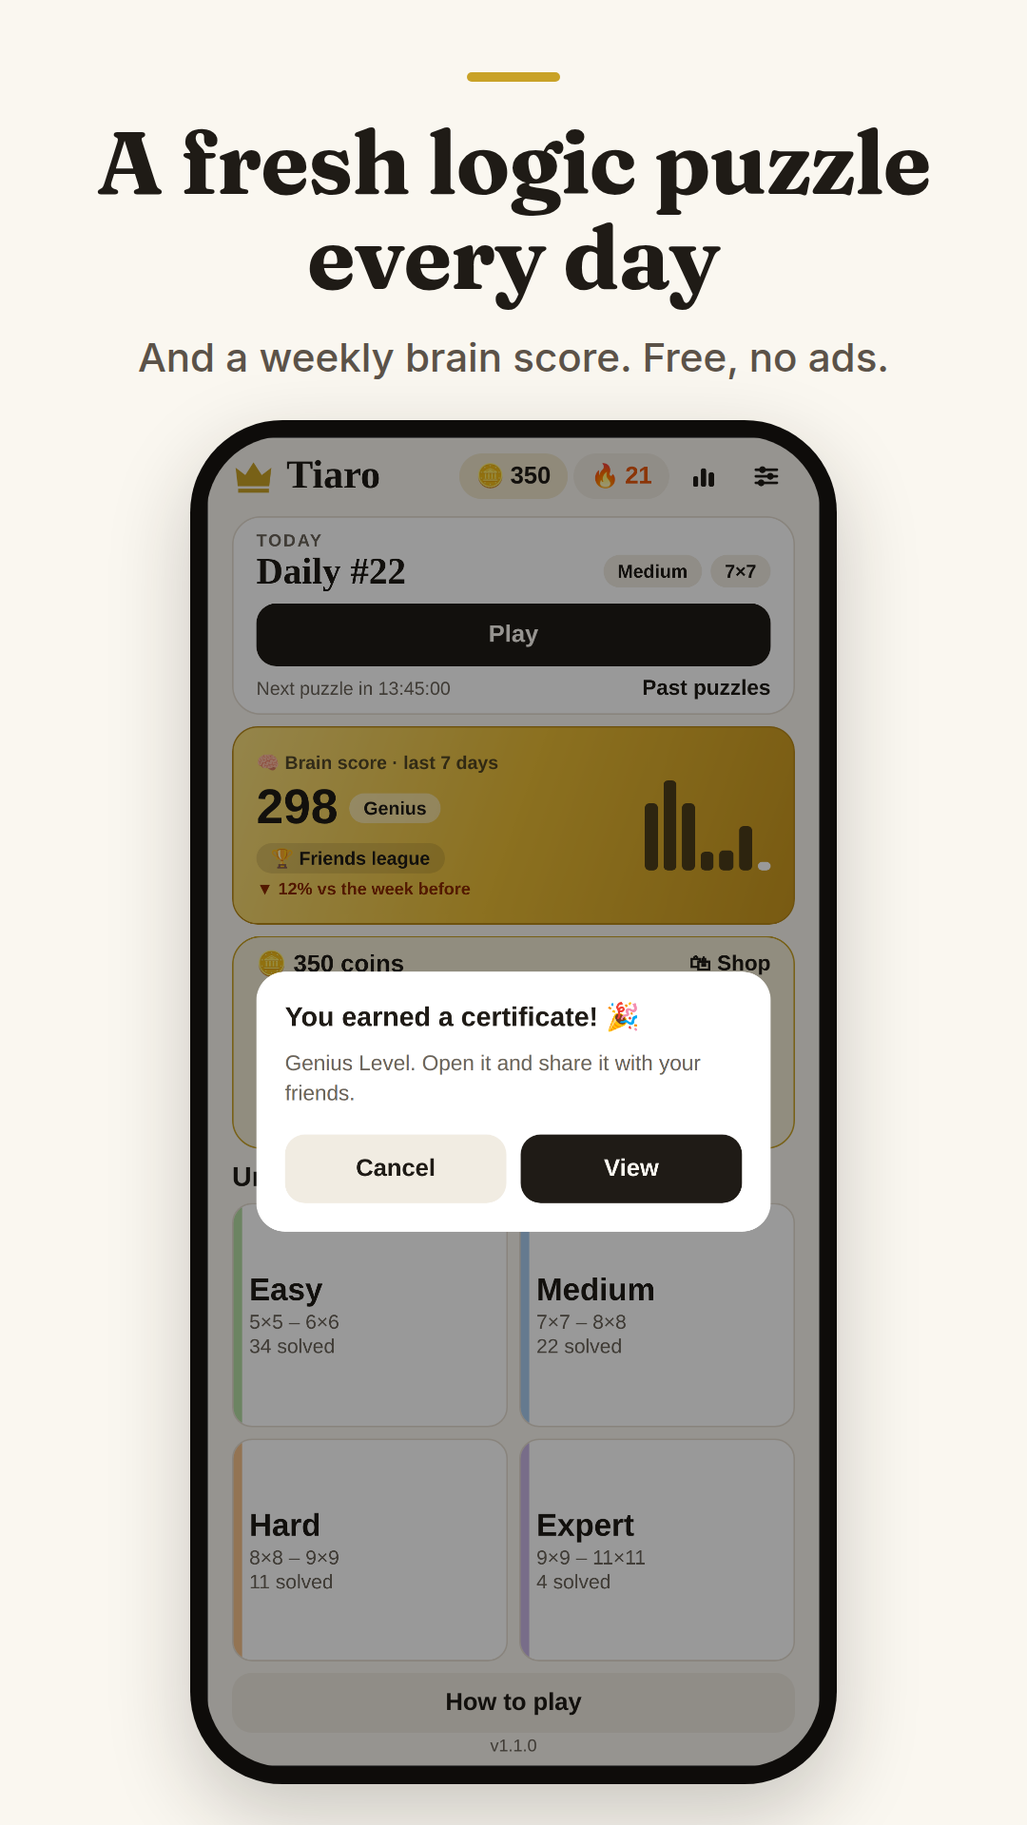
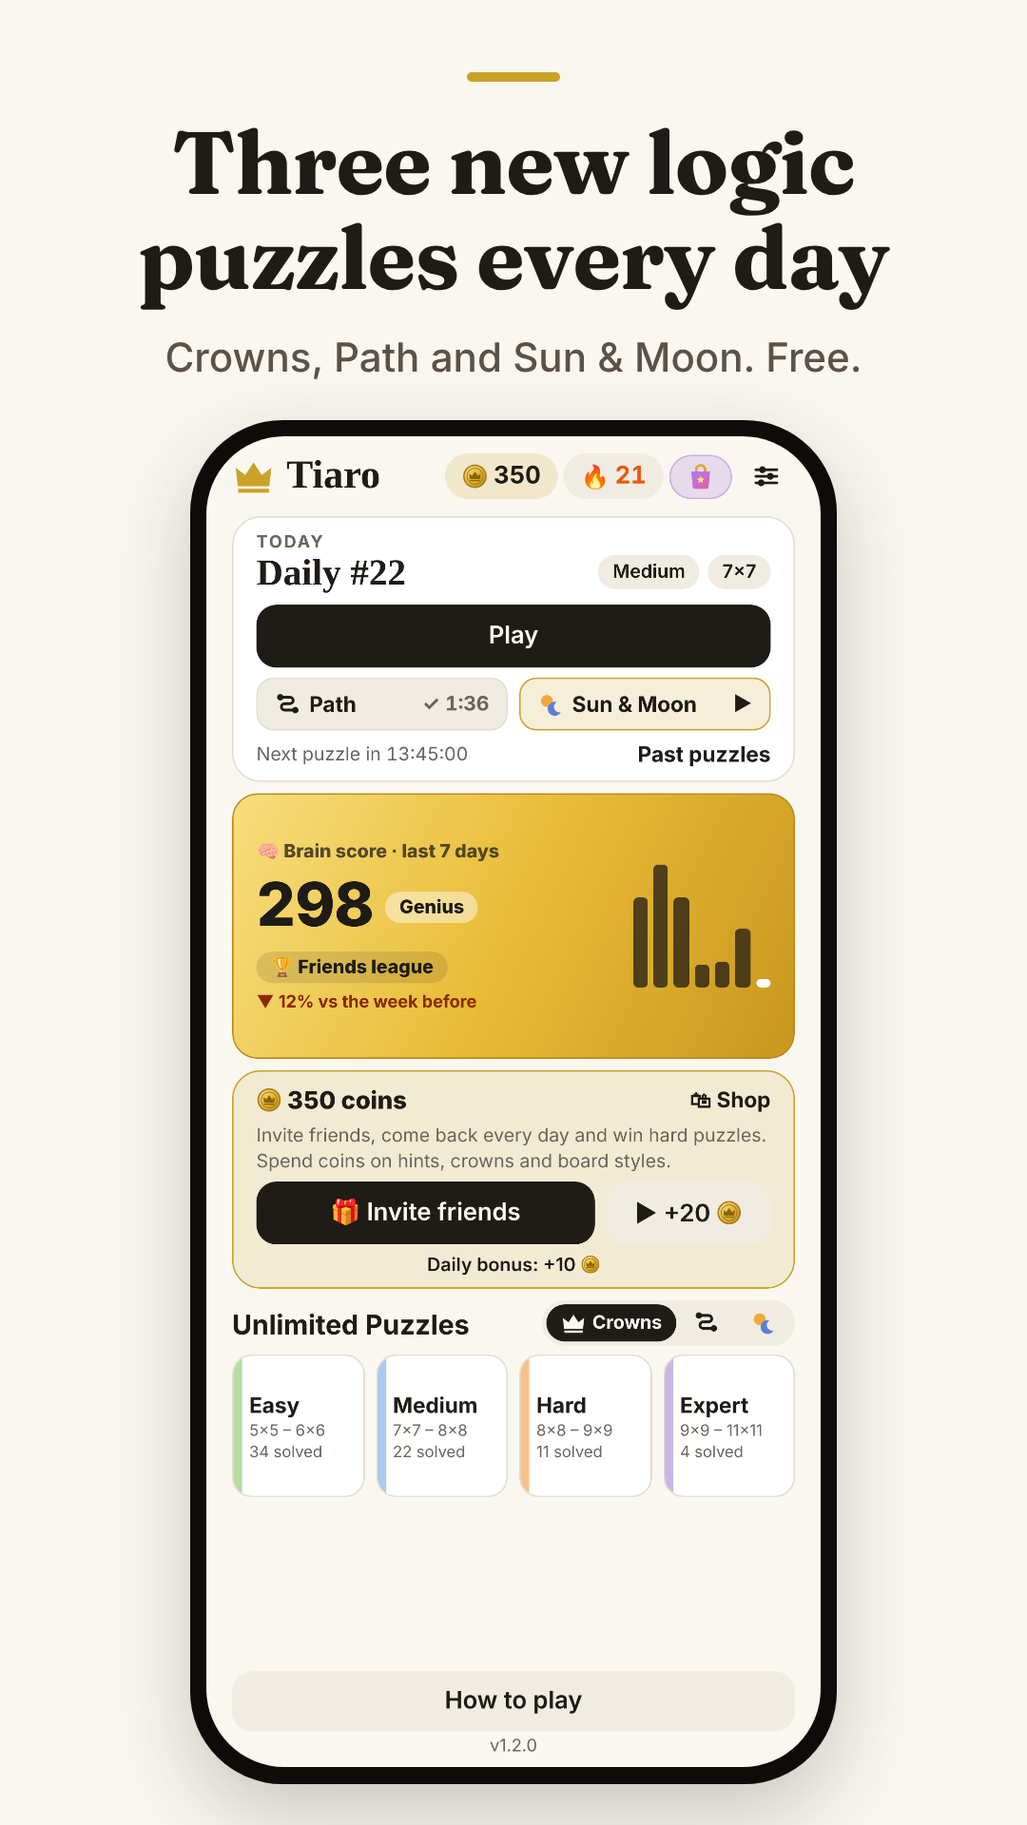
1.2.0: three daily puzzles (Crowns, Path, Sun & Moon); store texts and screenshots for the new set
Claude-Session: https://claude.ai/code/session_01CV8swuTHLnMxCJbxcmyU12

diff --git a/store/tools/seed.ts b/store/tools/seed.ts
@@ -6,6 +6,8 @@ import { writeFileSync } from 'node:fs';
 
 import { APP_VERSION } from '@/constants/version';
 import { CROSS, CROWN, EMPTY } from '@/engine';
+import { binaryUnlimitedId, getBinaryPuzzle } from '@/features/puzzles/binary-catalog';
+import { getPathPuzzle, pathUnlimitedId } from '@/features/puzzles/path-catalog';
 import { getPuzzle, unlimitedId } from '@/features/puzzles/catalog';
 
 const out = process.argv[2];
@@ -62,10 +64,15 @@ const base = (over: Record<string, unknown> = {}) => ({
       coins: 340,
       certCheckedDay: "2026-10-22", // no certificate pop-up over the Home shot
       nickname: "Alex",
-      certs: [{ kind: "week" as const, period: "2026-10-12", id: "k7m2qpa9" }],
+      certs: [{ kind: "week" as const, period: "2026-10-12", id: "k7m2qpa9" }, { kind: "genius" as const, period: "2026-10-19", id: "k7m2qpb3" }, { kind: "genius" as const, period: "2026-10-17", id: "k7m2qpb4" }],
       archiveUnlocked: [],
       lastRepairKey: null,
+      rulesSeen: ['path', 'binary'], // no rules card over the new puzzle shots
     },
+    // Today's Path daily is done (✓ on Home), Sun & Moon is still to play.
+    extra: {},
+    extraIndex: { path: { easy: 18, medium: 9, hard: 5, expert: 1 }, binary: { easy: 15, medium: 8, hard: 3, expert: 1 } },
+    extraDaily: { path: { '2026-10-22': 96 }, binary: {} },
     ...over,
   },
   version: 1,
@@ -88,6 +95,14 @@ function board(id: string, crownRows: number[], extraCross: number) {
 const game = (b: number[], seconds: number) => ({ board: b, undo: [], redo: [], seconds, hints: 0, solved: false });
 
 const mid = unlimitedId('medium', idx.medium);
+// The new puzzle types, half done: a path drawn part of the way, a sun & moon grid partly filled.
+const pathId = pathUnlimitedId('hard', 5);
+const pp = getPathPuzzle(pathId)!;
+const pathGame = { cells: pp.solution.slice(0, 22), undo: [], redo: [], seconds: 73, hints: 0, solved: false };
+const binId = binaryUnlimitedId('medium', 8);
+const bp = getBinaryPuzzle(binId)!;
+const binCells = bp.givens.map((v, i) => (v || (i < bp.n * 3 ? bp.solution[i] : 0)));
+const binGame = { cells: binCells, undo: [], redo: [], seconds: 58, hints: 0, solved: false };
 const hard = unlimitedId('hard', idx.hard);
 const lastRow = 6;
 const pm = getPuzzle(mid)!;
@@ -98,10 +113,14 @@ writeFileSync(
   JSON.stringify({
     mid,
     hard,
+    pathId,
+    binId,
     lastRow,
     lastCol: pm.solution[lastRow],
     scenarios: {
       home: base(),
+      path: base({ extra: { [pathId]: pathGame } }),
+      binary: base({ extra: { [binId]: binGame } }),
       stats: base(),
       game: base({ games: { [mid]: game(board(mid, [0, 2, 3, 5], 6), 134) } }),
       win: base({ games: { [mid]: game(board(mid, allButLast, 0), 87) } }),

diff --git a/src/features/whats-new/changelog.generated.ts b/src/features/whats-new/changelog.generated.ts
@@ -3,6 +3,16 @@ import type { ChangelogEntry } from './types';
 
 export const CHANGELOG: ChangelogEntry[] = [
   {
+    "version": "1.2.0",
+    "date": "2026-11-10",
+    "items": [
+      "Two new puzzles, every day and unlimited: Path (draw one line through every cell, passing the numbers in order) and Sun & Moon (half suns, half moons in every line, never three alike, = and × signs).",
+      "Home shows all three daily puzzles; the Unlimited tiles switch between Crowns, Path and Sun & Moon.",
+      "Each new puzzle has a short how-to-play card and hints (Sun & Moon hints explain the reasoning).",
+      "The coin at the top of Home sits level with the number."
+    ]
+  },
+  {
     "version": "1.1.5",
     "date": "2026-10-14",
     "items": [

diff --git a/store/listing.md b/store/listing.md
@@ -1,4 +1,4 @@
-# Store listing — Tiaro (v1.0)
+# Store listing — Tiaro (v1.2: three daily puzzles)
 
 English (US). Lengths are checked by `store/tools/check-listing.mjs`; limits in brackets.
 Never use other companies' brand names here (LinkedIn, NYT, Queens, Zip, Tango): Apple and Google reject them.
@@ -6,7 +6,8 @@ Plan for "queens" (Amir left the timing to us): not in v1.0; try it as an iOS ke
 
 ## Both stores
 
-- **App name** [30]: Tiaro: Daily Logic Puzzle
+- **App name** [30]: Tiaro: Daily Logic Puzzles
+  (v1.2: plural, because Tiaro has three puzzle types now; the App Store name changes with the next version.)
 - **Category:** Games → Puzzle (App Store secondary: Board). Google Play: Game → Puzzle.
 - **Price:** Free. **v1.0 (App Store) has no ads and no in-app purchase** (Amir 2026-10-10: ship before AdMob is approved).
   Later update: ads + one in-app purchase "Remove Ads" $3.99 (non-consumable, id `remove_ads`).
@@ -17,13 +18,13 @@ Plan for "queens" (Amir left the timing to us): not in v1.0; try it as an iOS ke
 ## App Store (iOS)
 
 **Subtitle** [30]
-One crown. Every row. Daily.
+3 brain puzzles, every day
 
 **Promotional text** [170] (can be changed any time without a new build)
-A fresh logic puzzle every day. Place one crown in each row, column and color. Track your weekly brain score and beat your friends. Free, no ads.
+Three fresh logic puzzles every day: Crowns, Path and Sun & Moon. Hints that teach, a weekly brain score and a league with friends.
 
 **Keywords** [100] (comma-separated, no spaces after commas; the name and subtitle words already count, so they are not repeated)
-logic,brain,star battle,grid,sudoku,nonogram,teaser,mind,crowns,game,games,iq,riddle,calm,offline
+brain,star battle,line,binary,sun,moon,grid,sudoku,nonogram,teaser,mind,crown,iq,riddle,calm,offline
 
 **Description** [4000]
 (same text as the Google Play full description below)
@@ -36,20 +37,22 @@ The app is portrait-only, so the iPad build runs full screen (`ios.requireFullSc
 ## Google Play
 
 **Short description** [80]
-A fresh crown logic puzzle every day. Free, offline, no subscription.
+Three new logic puzzles every day: crowns, a one-line path and sun & moon.
 
 **Full description** [4000]
 
-Tiaro is a calm, clever logic puzzle you can play in a few minutes a day.
+Tiaro is a set of calm, clever logic puzzles: three new ones every day, each solved in a few minutes.
 
-THE RULES FIT IN ONE LINE
-Place one crown in every row, every column and every color region. Crowns never touch, not even diagonally. That's it.
+THREE PUZZLES, ONE HABIT
+• Crowns: place one crown in every row, every column and every color region. Crowns never touch, not even diagonally.
+• Path: start at 1 and draw one line through every cell, passing the numbers in order. Thick walls cannot be crossed.
+• Sun & Moon: fill the grid with suns and moons. Every row and column is half and half, never three alike side by side, and the = and × signs say which neighbors match.
 
-A NEW PUZZLE EVERY DAY
-Everyone gets the same daily puzzle. Your first week starts gently and grows with you. Keep your streak alive, then compare times with friends.
+A NEW SET EVERY DAY
+Everyone gets the same daily puzzles. Your first week starts gently and grows with you. Keep your streak alive, then compare times with friends.
 
 NEVER GUESS
-Every puzzle has exactly one solution and can be solved by pure logic. When you get stuck, a hint teaches you the next step: first where to look, then why it works.
+Every puzzle has exactly one solution, made and checked by Tiaro's own puzzle engine. Crowns and Sun & Moon can always be solved by pure logic, and their hints teach the next step and explain why it works. On a Path, a hint shows where the line goes next.
 
 YOUR BRAIN SCORE
 Every solve earns points for difficulty, speed and playing without hints. See your score this week, this month, this year and all time, your level from Warming up to Genius, and how you did against last week. Add the widget to your iPhone home screen to keep it in sight.
@@ -64,10 +67,10 @@ COINS AND SHOP
 Get a daily bonus for coming back, coins for daily and hard wins and for friends who open your links. Spend them on hints, royal crowns and board styles.
 
 PLAY AS MUCH AS YOU LIKE
-Unlimited Puzzles in four levels, from relaxing 5×5 boards to tough 11×11 grids.
+Unlimited Puzzles of all three types in four levels, from relaxing 5×5 boards to tough 11×11 grids.
 
 MADE FOR YOU
-• Tap to mark, drag to fill, long-press for a crown
+• Tap to mark, drag to fill, long-press for a crown, drag to draw a path
 • Undo, redo and automatic X marks
 • Pinch to zoom on big boards
 • Dark mode and color-blind patterns

diff --git a/store/listing-ar.md b/store/listing-ar.md
@@ -7,17 +7,17 @@ Same rules as `listing.md`: no other companies' brand names.
 
 ## Both stores
 
-- **App name** [30]: Tiaro: لغز منطقي يومي
+- **App name** [30]: Tiaro: ألغاز منطق يومية
 - **Support URL:** https://espadna.com/tiaro-app/ar/ · **Privacy policy:** https://tiaro.espadna.com/privacy
 - **Marketing URL (optional):** https://espadna.com/tiaro-app/ar/
 
 ## App Store (iOS)
 
 **Subtitle** [30]
-تاج واحد في كل صف، كل يوم
+ثلاثة ألغاز ذكاء كل يوم
 
 **Promotional text** [170] (can be changed any time without a new build)
-لغز منطقي جديد كل يوم. ضع تاجًا واحدًا في كل صف وعمود ولون. دون تخمين، ودون اشتراك.
+ثلاثة ألغاز منطقية جديدة كل يوم: التيجان والمسار وشمس وقمر. تلميحات تعلّمك، ونقاط ذهن أسبوعية، ودوري مع أصدقائك.
 
 **Keywords** [100] (comma-separated, no spaces after commas; words from the name and subtitle already count)
 ألغاز,منطق,ذكاء,سودوكو,شبكة,ألعاب ذهنية,تفكير,تحدي,عقل,ألعاب,هادئة,بدون إنترنت,أحجية,نجوم
@@ -28,23 +28,25 @@ Same rules as `listing.md`: no other companies' brand names.
 ## Google Play
 
 **Short description** [80]
-لغز منطقي جديد بالتيجان كل يوم. مجاني، يعمل دون إنترنت، دون اشتراك.
+ثلاثة ألغاز منطقية جديدة كل يوم: تيجان، ومسار بخط واحد، وشمس وقمر.
 
 **Full description** [4000]
 
-تيارو لغز منطقي هادئ وذكي تلعبه في دقائق قليلة كل يوم.
+تيارو مجموعة ألغاز منطقية هادئة وذكية: ثلاثة ألغاز جديدة كل يوم، كل منها في دقائق قليلة.
 
-القواعد في سطر واحد
-ضع تاجًا واحدًا في كل صف وكل عمود وكل منطقة ملوّنة. التيجان لا تتلامس أبدًا، ولا حتى قطريًا. هذا كل شيء.
+ثلاثة ألغاز، عادة واحدة
+• التيجان: ضع تاجًا واحدًا في كل صف وكل عمود وكل منطقة ملوّنة. التيجان لا تتلامس أبدًا، ولا حتى قطريًا.
+• المسار: ابدأ من 1 وارسم خطًا واحدًا يمر بكل الخانات وبالأرقام بالترتيب. الجدران السميكة لا تُعبر.
+• شمس وقمر: املأ الشبكة بالشموس والأقمار. نصف كل صف وعمود شموس ونصفه أقمار، ولا ثلاثة متشابهة متجاورة، وعلامتا = و× تحددان الجيران.
 
-لغز جديد كل يوم
-الجميع يحصل على لغز اليوم نفسه. حافظ على سلسلتك اليومية، ثم قارن وقتك بأوقات أصدقائك.
+مجموعة جديدة كل يوم
+الجميع يحصل على ألغاز اليوم نفسها. حافظ على سلسلتك اليومية، ثم قارن وقتك بأوقات أصدقائك.
 
 دون تخمين أبدًا
 لكل لغز حل واحد فقط، ويُحل بالمنطق وحده. إذا علقت، تعلّمك تلميحات تيارو الخطوة التالية: أولًا أين تنظر، ثم لماذا تنجح الخطوة.
 
 العب كما تشاء
-ألغاز بلا حدود في أربعة مستويات، من لوحات 5×5 الهادئة إلى شبكات 11×11 الصعبة.
+ألغاز بلا حدود من الأنواع الثلاثة في أربعة مستويات، من لوحات 5×5 الهادئة إلى شبكات 11×11 الصعبة.
 
 مصمم لراحتك
 • اضغط لوضع علامة، واسحب للتعبئة، واضغط مطولًا لوضع تاج

diff --git a/store/listing-ru.md b/store/listing-ru.md
@@ -2,24 +2,26 @@
 
 Same structure as listing.md. Name, subtitle and keywords are per locale in App Store Connect.
 
-- **App name** [30]: Tiaro: логическая головоломка
-- **Subtitle** [30]: Одна корона. Каждый день.
+- **App name** [30]: Tiaro: логические головоломки
+- **Subtitle** [30]: Три головоломки каждый день
 
 **Promotional text** [170]
-Новая логическая головоломка каждый день. Одна корона в каждом ряду, столбце и цвете. Счёт ума, лига друзей и сертификаты. Бесплатно.
+Три новые логические головоломки каждый день: Короны, Путь и Солнце и Луна. Подсказки, которые учат, счёт ума и лига друзей.
 
 **Keywords** [100]
 логика,головоломка,судоку,нонограмма,мозг,звёздная битва,задачи,ум,корона,игра,без интернета,iq
 
 **Description** [4000]
 
-Tiaro — спокойная и умная логическая головоломка на несколько минут в день.
+Tiaro — спокойные и умные логические головоломки: три новые каждый день, каждая на несколько минут.
 
-ПРАВИЛА В ОДНУ СТРОКУ
-Поставьте по одной короне в каждый ряд, каждый столбец и каждую цветную область. Короны не касаются друг друга, даже по диагонали. Вот и всё.
+ТРИ ГОЛОВОЛОМКИ — ОДНА ПРИВЫЧКА
+• Короны: по одной короне в каждом ряду, столбце и цветной области. Короны не касаются друг друга, даже по диагонали.
+• Путь: начните с 1 и проведите одну линию через все клетки, проходя числа по порядку. Толстые стены не пересекать.
+• Солнце и Луна: заполните поле солнцами и лунами. В каждой строке и столбце их поровну, три одинаковых подряд нельзя, а знаки = и × связывают соседей.
 
-НОВАЯ ГОЛОВОЛОМКА КАЖДЫЙ ДЕНЬ
-У всех одна и та же задача дня. Первая неделя начинается легко. Держите серию и сравнивайте время с друзьями.
+НОВЫЙ НАБОР КАЖДЫЙ ДЕНЬ
+У всех одни и те же задачи дня. Первая неделя начинается легко. Держите серию и сравнивайте время с друзьями.
 
 НИКАКИХ ДОГАДОК
 У каждой головоломки ровно одно решение, и её можно решить чистой логикой. Застряли? Подсказка покажет, куда смотреть, и объяснит почему.

diff --git a/CLAUDE.md b/CLAUDE.md
@@ -208,6 +208,16 @@ Read these before writing code:
 - v1.1.4–1.1.5 (Amir): Home header = coins chip, 🔥 streak chip (opens Stats; no Stats button), Shop chip (`ShopBagIcon` +
   `SHOP_TINT` frame, option 1 of 4 mock-ups), Settings. Reminder text is casual (Amir's Persian); `refreshDailyReminder` re-schedules
   it on every launch when allowed, so old installs get new text/language (never prompts).
+- v1.2.0 (Amir, after a 4.3 rejection: "make it a multi-puzzle app"): **Path** (`engine/path.ts`: backbite random Hamiltonian
+  path, checkpoints added until `countPathSolutions` = 1 then thinned, optional walls; packs `assets/packs/path-*.json` via
+  `npm run build:path-packs`) and **Sun & Moon** (`engine/binary.ts`: grids built row by row, givens removed while the logic
+  solver (`nextBinaryStep`: pair/gap/sign/balance, + whole-line reasoning for hard/expert) still solves it; packs `binary-*.json`
+  via `npm run build:binary-packs`). Ids `path-<date>`, `path-<level>-0001`, `binary-…` (catalogs in `features/puzzles/`).
+  Store: `extra` games (cells + undo snapshots), `extraIndex`, `extraDaily`, `meta.rulesSeen`; they count for brain points
+  and coins like crowns. Shared screen `features/extra/extra-screen.tsx` (+ `rules-card.tsx`), boards in `features/path`,
+  `features/binary`; routes `/path/[id]`, `/binary/[id]`; challenge links redirect there. Home: two mini daily buttons in
+  the daily card, Unlimited switch (crowns/path/binary). Streak + archive + share picture are still crowns-only.
+  Listings (en/ar/ru) now sell "3 daily puzzles"; new App Store name "Tiaro: Daily Logic Puzzles".
 - **iOS builds now run on GitHub Actions** (`.github/workflows/ios-build.yml`, 2026-10-13): the repo is public, so the macos-26
   runner (Xcode 26.6) is free; `eas build --local` uses no Expo build credits, then `eas submit` to TestFlight (~45 min). Start it
   with the MCP `actions_run_trigger` (run_workflow, ref = this branch) or a commit message containing the trigger words (keep them

diff --git a/CHANGELOG.md b/CHANGELOG.md
@@ -2,6 +2,12 @@
 
 Each entry is also shown in the in-app "What's new" sheet.
 
+## 1.2.0 — 2026-11-10
+- Two new puzzles, every day and unlimited: Path (draw one line through every cell, passing the numbers in order) and Sun & Moon (half suns, half moons in every line, never three alike, = and × signs).
+- Home shows all three daily puzzles; the Unlimited tiles switch between Crowns, Path and Sun & Moon.
+- Each new puzzle has a short how-to-play card and hints (Sun & Moon hints explain the reasoning).
+- The coin at the top of Home sits level with the number.
+
 ## 1.1.5 — 2026-10-14
 - A colorful Shop button at the top of Home.
 - A friendlier daily reminder.

diff --git a/store/README.md b/store/README.md
@@ -9,7 +9,7 @@ Ready to upload:
   1024×1366 @2x viewport).
 - `screenshots/android/` — Google Play phone screenshots, 1080×1920, plus `feature-graphic-1024x500.png`.
 
-Order: 1 daily puzzle, 2 rules, 3 hints, 4 streak/stats, 5 challenge a friend, 6 dark mode.
+Order (1.2): 1 home with the three dailies, 2 crowns, 3 path, 4 sun & moon, 5 hints, 6 stats, 7 challenge, 8 dark mode, 9 certificates. The iPad and Arabic sets still show 1.1 (no path / sun & moon shots yet).
 
 ## Rebuilding (after UI changes)
 
